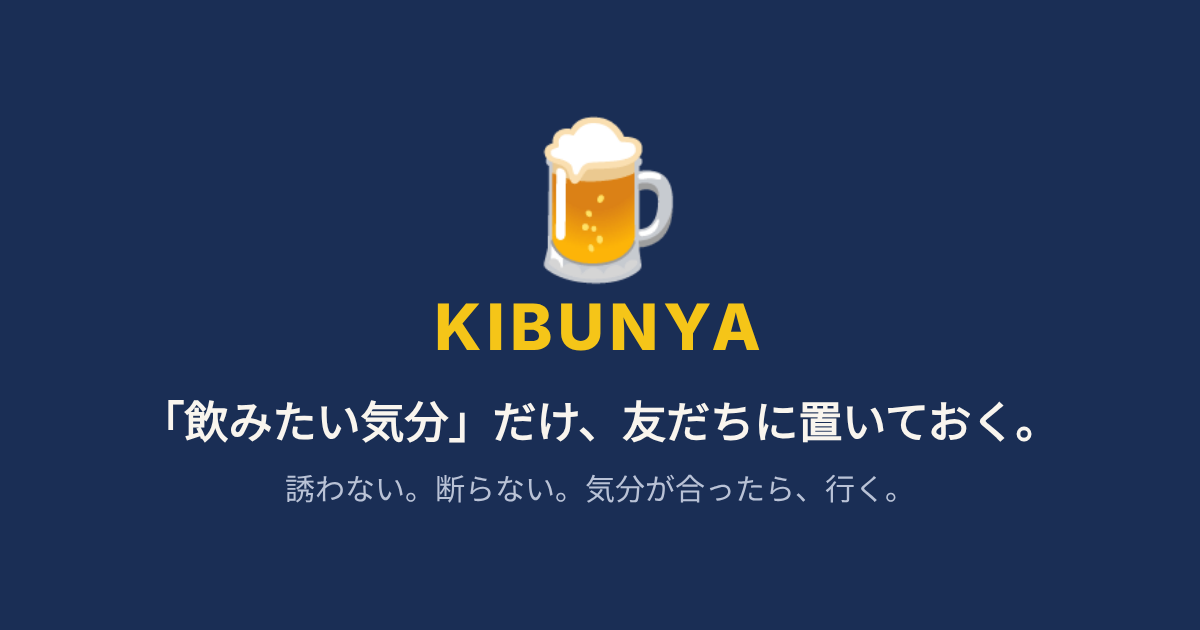
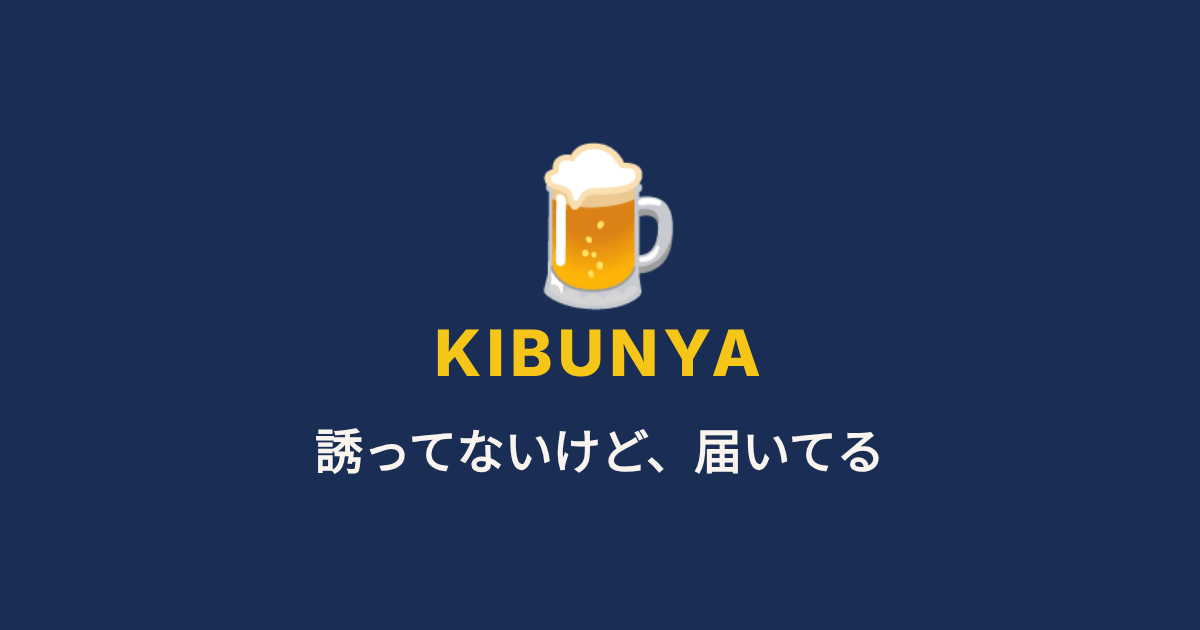
招待リンクのプレビュー文言をApp Storeのサブタイトル・既存の説明文に統一
独自の言い回しをやめ、既存の公式の文言だけを使うため。

Claude-Session: https://claude.ai/code/session_01NVRfYFUnTzRgrGDCkRkcuu

Changed region(s): [[0.1233, 0.6333, 0.8633, 0.8143], [0.3392, 0.181, 0.6475, 0.6032]]

diff --git a/docs/invite.html b/docs/invite.html
@@ -4,10 +4,10 @@
   <meta charset="UTF-8">
   <meta name="viewport" content="width=device-width, initial-scale=1.0">
   <title>招待リンク | KIBUNYA</title>
-  <meta name="description" content="友だちからKIBUNYA（キブンヤ）の招待が届きました。「飲みたい気分」だけを友だちに伝えられるiPhoneアプリです。タップして友だちになりましょう。">
+  <meta name="description" content="KIBUNYA（キブンヤ）は、気分を「置いておく」だけで、友達に今夜の気分が届く、ちょい飲みのための小さなアプリです。">
   <meta property="og:type" content="website">
-  <meta property="og:title" content="🍺 KIBUNYAの招待が届きました">
-  <meta property="og:description" content="「飲みたい気分」だけを友だちに伝えるアプリ。タップして友だちになろう。">
+  <meta property="og:title" content="KIBUNYA（キブンヤ）｜誘ってないけど、届いてる">
+  <meta property="og:description" content="気分を「置いておく」だけで、友達に今夜の気分が届く、ちょい飲みのための小さなアプリです。">
   <meta property="og:image" content="https://gokuyou-official.github.io/kibunya/ogp.png">
   <meta property="og:image:width" content="1200">
   <meta property="og:image:height" content="630">
